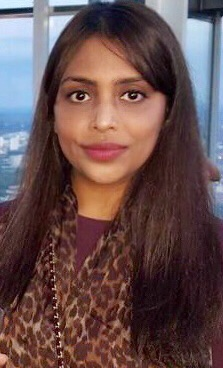
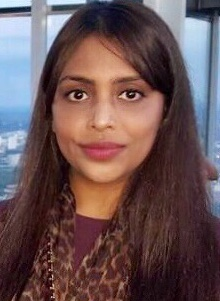
cleanup application pages content and styling

diff --git a/app/assets/stylesheets/application.scss b/app/assets/stylesheets/application.scss
@@ -180,7 +180,7 @@ body {
   margin-right: 10px;
 }
 
-.contact {
+.pages-container {
   text-align: center;
   color: $gray-600;
   h3 {
@@ -205,4 +205,13 @@ body {
 
 .subtitle {
   margin-top: -5%;
+}
+
+.profile-pic {
+  padding-top: 20px;
+}
+
+.about-block {
+  padding-top: 70px;
+
 }
